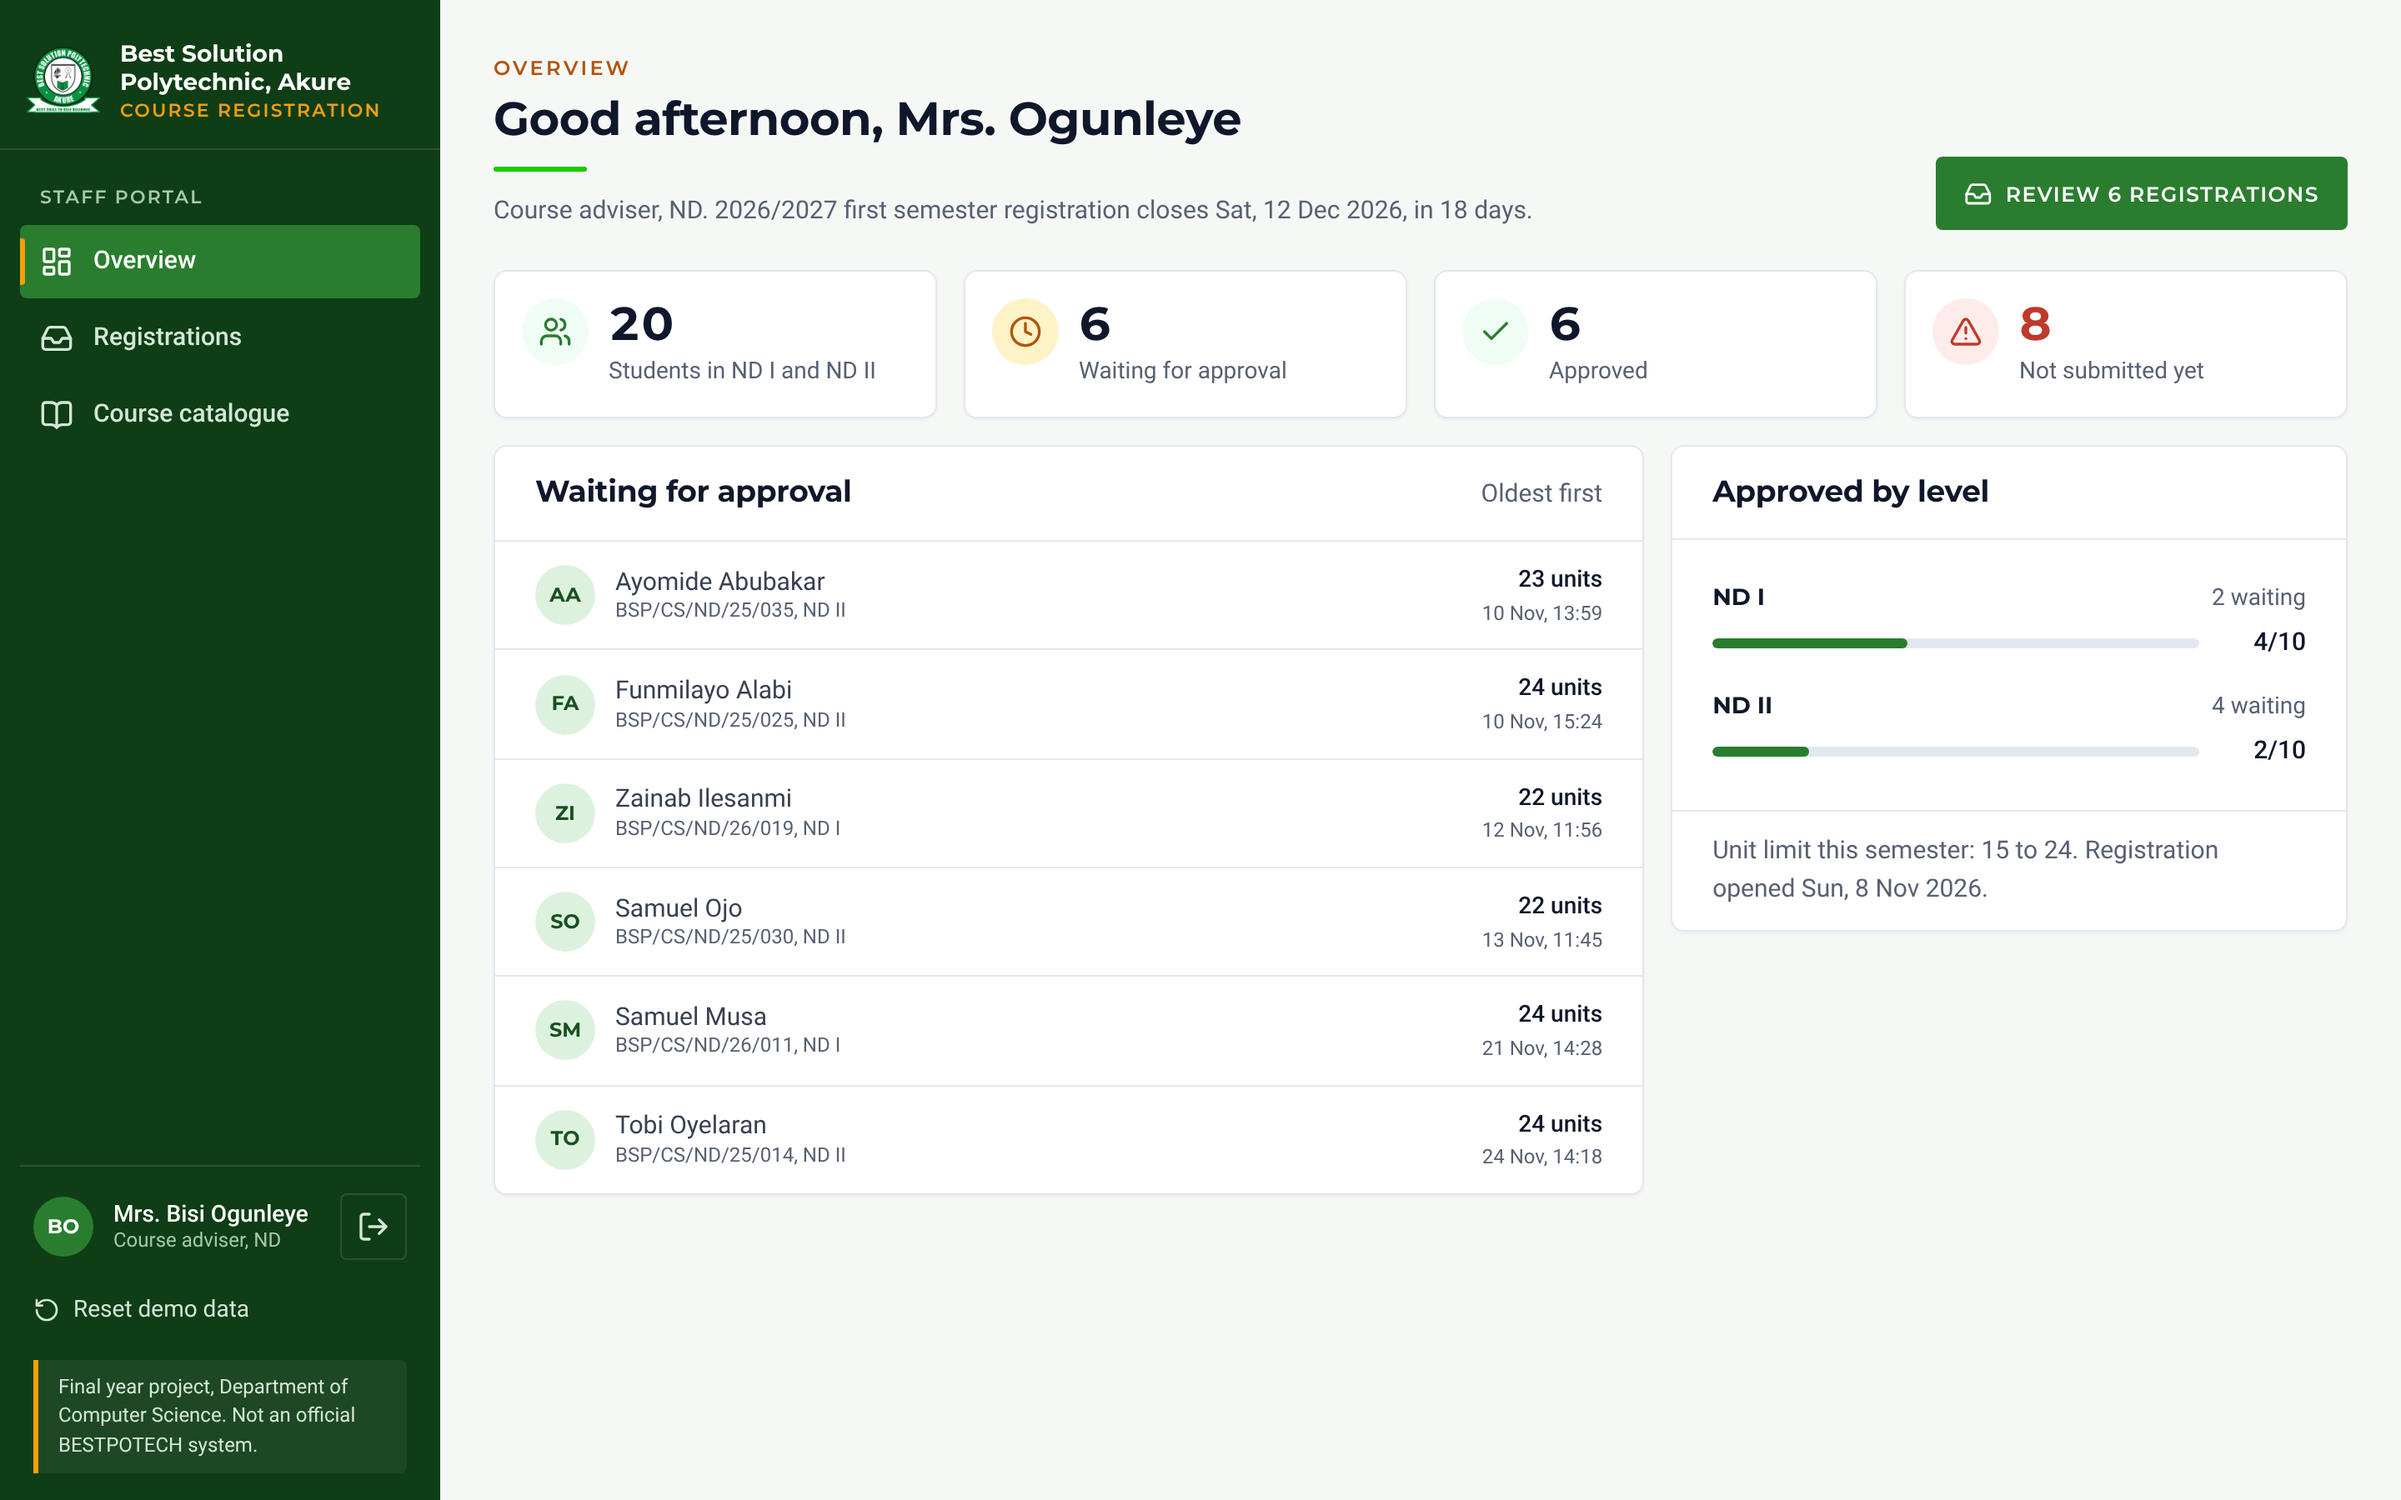
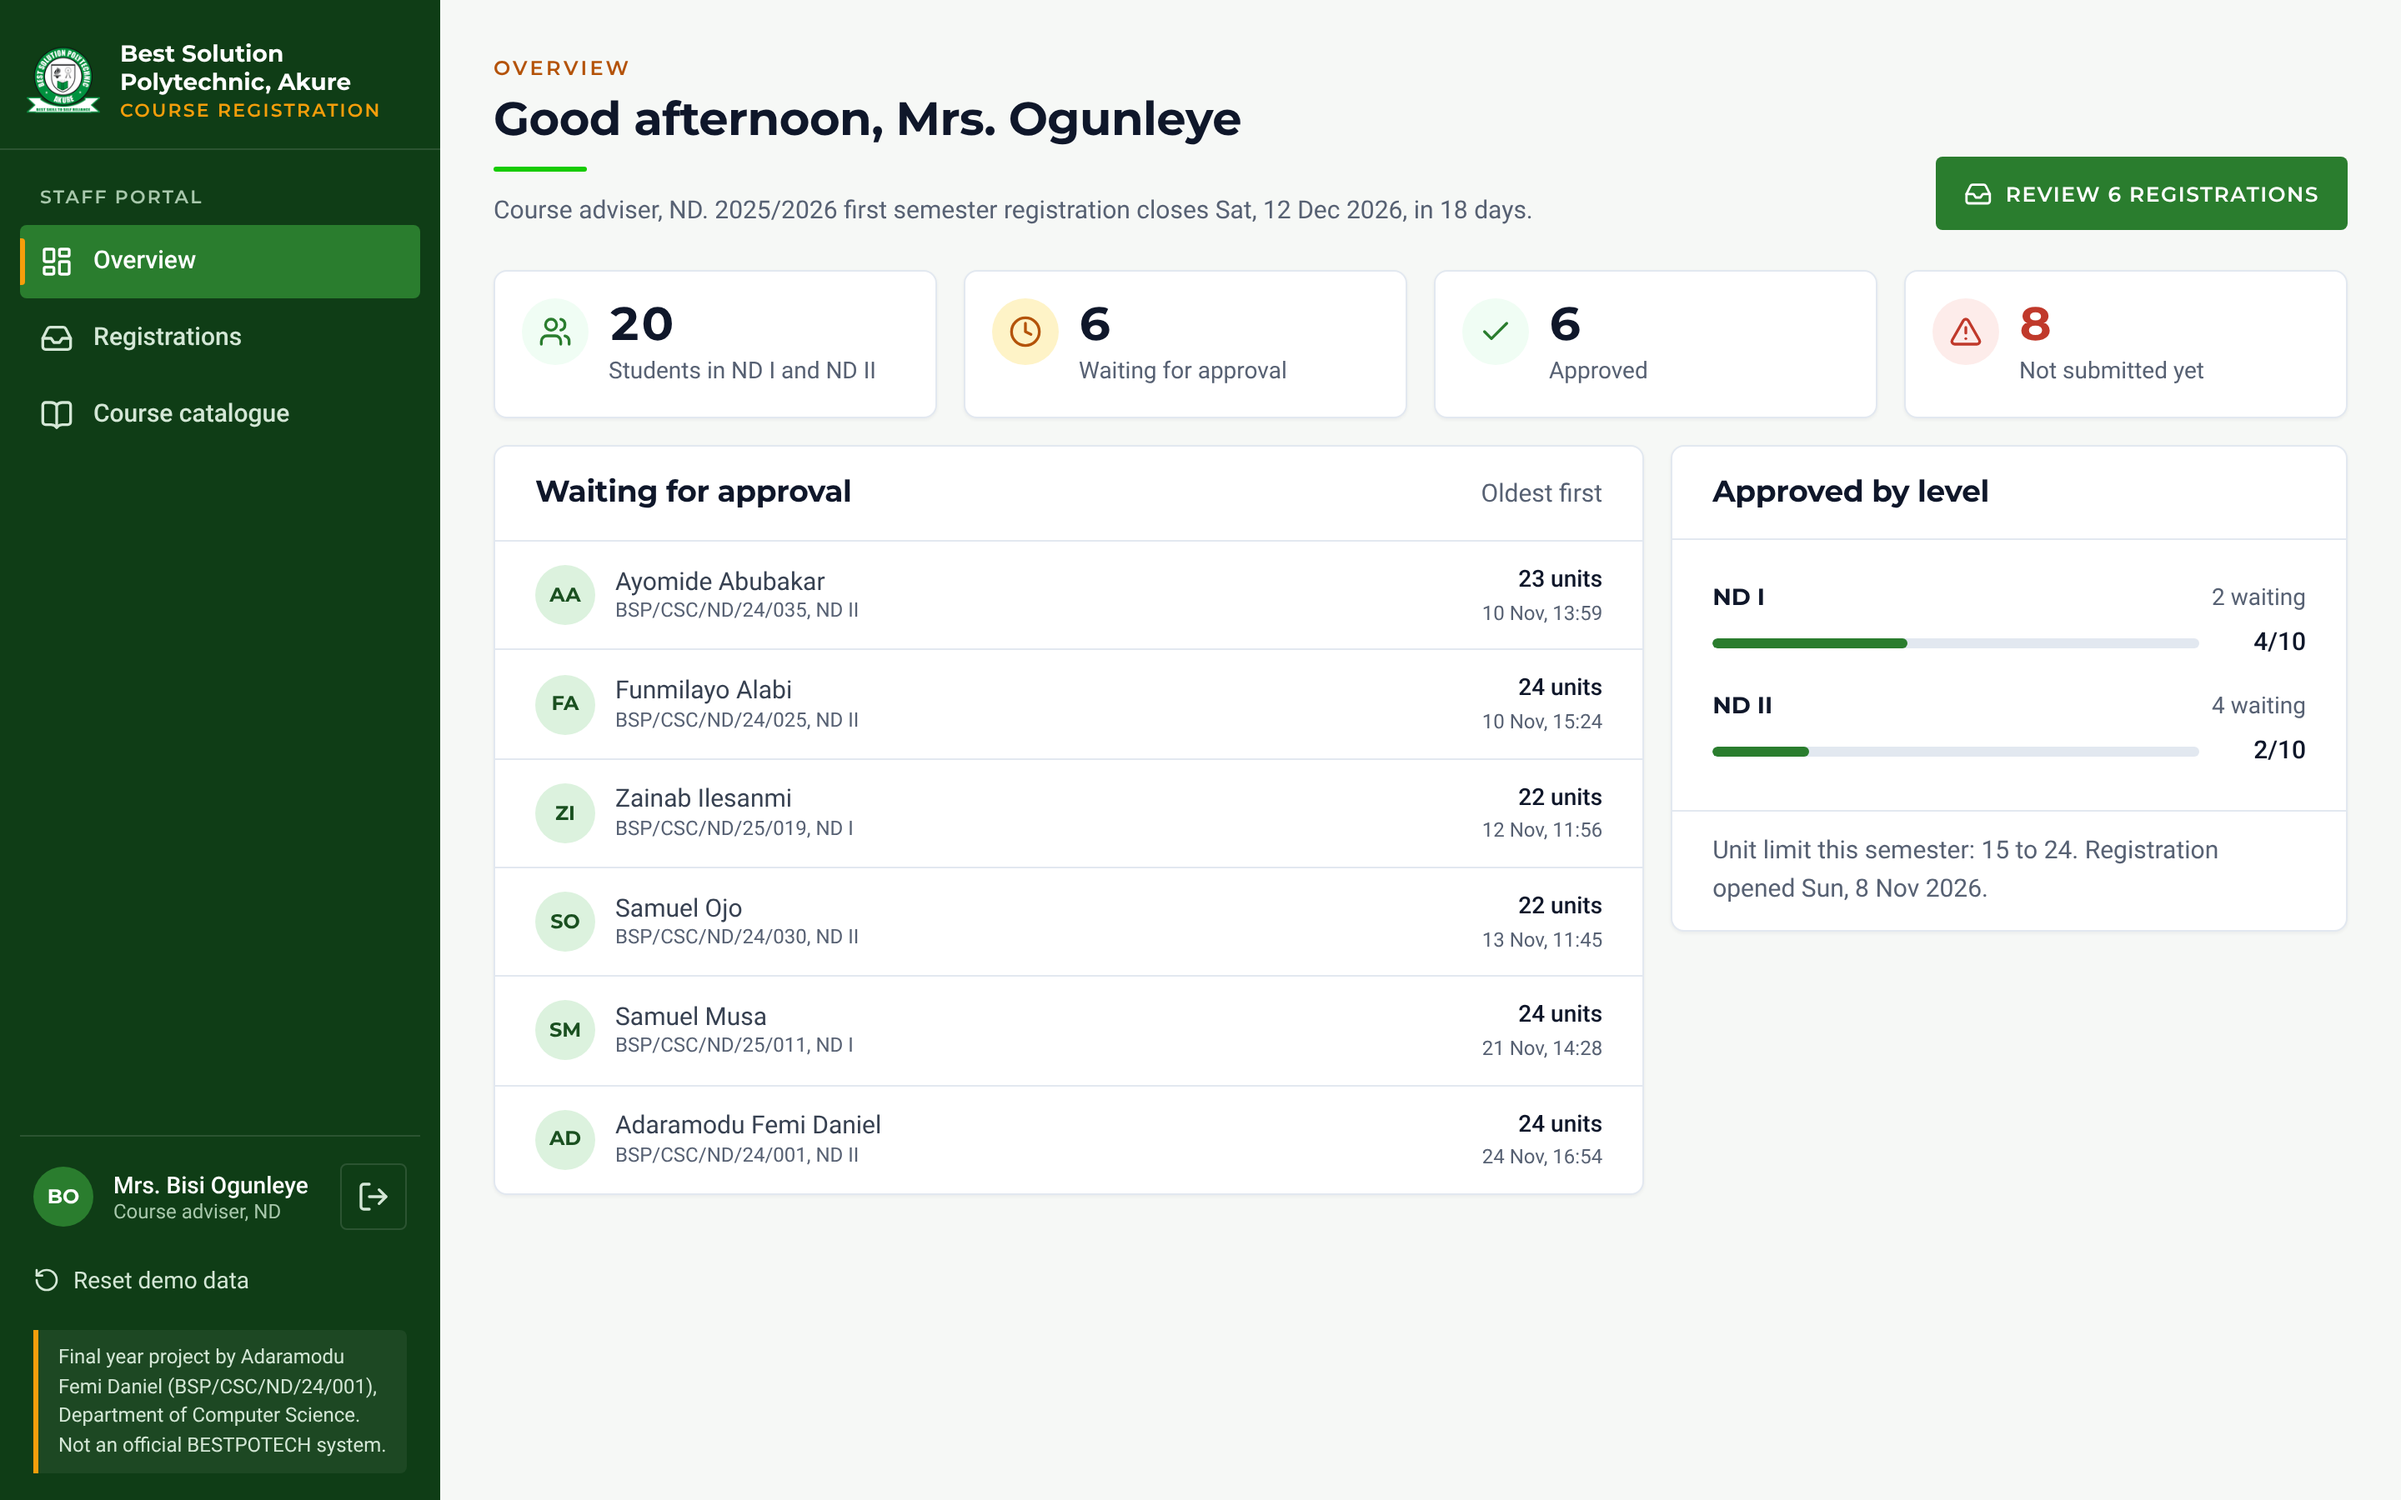
Add Adaramodu Femi Daniel as presenter and demo student
Matric numbers now follow the school's BSP/CSC format and the
session is 2025/2026, so the presenter's own matric fits ND II.

diff --git a/js/lib/seed.js b/js/lib/seed.js
@@ -5,19 +5,19 @@
 import { LEVELS, STAFF } from './catalogue.js';
 import { optionsFor, requiredCodes, totalUnits } from './rules.js';
 
-export const DATA_VERSION = 3;
+export const DATA_VERSION = 4;
 
 const FIRST = ['Adaeze', 'Ayomide', 'Chinedu', 'Damilola', 'Ebuka', 'Fatima', 'Funmilayo', 'Ibrahim', 'Ifeoluwa', 'Ikechukwu', 'Kehinde', 'Mariam', 'Nkechi', 'Oluwaseun', 'Opeyemi', 'Precious', 'Ridwan', 'Samuel', 'Temitope', 'Tunde', 'Uche', 'Victoria', 'Yusuf', 'Zainab', 'Bolaji', 'Chiamaka', 'David', 'Esther', 'Gbenga', 'Halima', 'Jide', 'Kemi', 'Lateef', 'Moses', 'Ngozi', 'Rotimi'];
 const LAST = ['Adebayo', 'Okonkwo', 'Bello', 'Eze', 'Ogundipe', 'Abubakar', 'Olaniyan', 'Nwosu', 'Akinola', 'Ibe', 'Salami', 'Okafor', 'Adewale', 'Musa', 'Ojo', 'Afolabi', 'Babatunde', 'Chukwu', 'Ilesanmi', 'Oyebanji', 'Ajibade', 'Fashola', 'Obi', 'Lawal', 'Ayodele', 'Komolafe', 'Oladipo', 'Uzor', 'Alabi', 'Olowe'];
 
-const MATRIC_PREFIX = { 'ND I': 'ND/26', 'ND II': 'ND/25', 'HND I': 'HND/26', 'HND II': 'HND/25' };
+const MATRIC_PREFIX = { 'ND I': 'ND/25', 'ND II': 'ND/24', 'HND I': 'HND/25', 'HND II': 'HND/24' };
 
 // Earlier failed courses a student might be carrying.
 const CARRY_POOL = { 'ND II': ['COM 113', 'COM 112', 'MTH 111'], 'HND II': ['COM 311', 'COM 315', 'STA 311'] };
 
-// The account the sign-in page offers first: ND II with one carryover
-// and nothing registered yet, so the whole journey can be shown.
-export const DEMO_STUDENT = 'BSP/CS/ND/25/014';
+// The presenter's own account: ND II with one carryover and nothing
+// registered yet, so the whole journey can be shown live.
+export const DEMO_STUDENT = 'BSP/CSC/ND/24/001';
 
 function random(seed) {
   let value = seed;
@@ -45,7 +45,7 @@ export function buildDemoData(now = new Date()) {
   const pick = (list) => list[Math.floor(rand() * list.length)];
 
   const term = {
-    session: '2026/2027',
+    session: '2025/2026',
     semester: 1,
     opens: isoDay(now, -16),
     closes: isoDay(now, 18),
@@ -66,7 +66,7 @@ export function buildDemoData(now = new Date()) {
       const pool = CARRY_POOL[level];
       const carryovers = pool && rand() < 0.3 ? [pick(pool)] : [];
       students.push({
-        matric: `BSP/CS/${MATRIC_PREFIX[level]}/${String(serial).padStart(3, '0')}`,
+        matric: `BSP/CSC/${MATRIC_PREFIX[level]}/${String(serial).padStart(3, '0')}`,
         name,
         level,
         mode: rand() < 0.8 ? 'Full-time' : 'Part-time',
@@ -75,9 +75,9 @@ export function buildDemoData(now = new Date()) {
     }
   }
 
-  // The demo student, placed in ND II.
+  // The presenter, placed in ND II. Surname first, as on school records.
   const demoIndex = students.findIndex((student) => student.level === 'ND II');
-  students[demoIndex] = { matric: DEMO_STUDENT, name: 'Tobi Oyelaran', level: 'ND II', mode: 'Full-time', carryovers: ['COM 113'] };
+  students[demoIndex] = { matric: DEMO_STUDENT, name: 'Adaramodu Femi Daniel', preferredName: 'Femi', level: 'ND II', mode: 'Full-time', carryovers: ['COM 113'] };
 
   const registrations = {};
   let refCounter = 0;
@@ -133,5 +133,5 @@ export function buildDemoData(now = new Date()) {
 
 export function makeRef(term, counter) {
   const years = term.session.replace(/^20(\d\d)\/20(\d\d)$/, '$1$2');
-  return `CRF/CS/${years}/${term.semester}/${String(counter).padStart(4, '0')}`;
+  return `CRF/CSC/${years}/${term.semester}/${String(counter).padStart(4, '0')}`;
 }

diff --git a/js/lib/catalogue.js b/js/lib/catalogue.js
@@ -8,7 +8,9 @@ export const SCHOOL = Object.freeze({
   address: 'P.O. Box 518, Km 12, Ondo Road, Akure, Ondo State',
   department: 'Department of Computer Science',
   faculty: 'School of Information and Communication Technology',
-  projectNote: 'Final year project, Department of Computer Science. Not an official BESTPOTECH system.',
+  presenter: 'Adaramodu Femi Daniel',
+  presenterMatric: 'BSP/CSC/ND/24/001',
+  projectNote: 'Final year project by Adaramodu Femi Daniel (BSP/CSC/ND/24/001), Department of Computer Science. Not an official BESTPOTECH system.',
 });
 
 export const LEVELS = Object.freeze(['ND I', 'ND II', 'HND I', 'HND II']);

diff --git a/js/pages/signin.js b/js/pages/signin.js
@@ -12,7 +12,7 @@ if (signedIn) window.location.replace(home(signedIn));
 $('#school-address').replaceChildren(icon('mapPin', { size: 16 }), SCHOOL.address);
 
 const fields = [
-  buildField({ name: 'username', label: 'Matric number or email', autocomplete: 'username', help: 'For example BSP/CS/ND/25/014' }),
+  buildField({ name: 'username', label: 'Matric number or email', autocomplete: 'username', help: 'For example BSP/CSC/ND/24/001' }),
   buildField({ name: 'password', label: 'Password', type: 'password', autocomplete: 'current-password' }),
 ];
 fields[0].control.setAttribute('autocapitalize', 'characters');

diff --git a/js/pages/student.js b/js/pages/student.js
@@ -16,7 +16,7 @@ const adviser = STAFF.find((member) => member.role === 'adviser' && member.level
 const open = windowState(term, today) === 'open';
 const daysLeft = daysBetween(today, term.closes);
 
-$('#page-title').textContent = `${greeting()}, ${firstName(user.name)}`;
+$('#page-title').textContent = `${greeting()}, ${user.preferredName || firstName(user.name)}`;
 $('#page-meta').textContent = `${user.level}, ${PROGRAMMES[user.level]}. ${term.session} session, first semester.`;
 
 const primary = canEdit(registration) && open

diff --git a/index.html b/index.html
@@ -31,7 +31,7 @@
     </aside>
     <main class="portal__main" id="main">
       <div class="portal__card">
-        <p class="eyebrow">2026/2027 session, first semester</p>
+        <p class="eyebrow">2025/2026 session, first semester</p>
         <h1>Sign in</h1>
         <p class="portal__lead">Students sign in with their matriculation number. Staff use their school email.</p>
         <div id="signin-form"></div>

diff --git a/tests/rules.test.js b/tests/rules.test.js
@@ -88,5 +88,5 @@ test('demo data follows the rules', () => {
 });
 
 test('form references are readable', () => {
-  assert.equal(makeRef(term, 7), 'CRF/CS/2627/1/0007');
+  assert.equal(makeRef(term, 7), 'CRF/CSC/2526/1/0007');
 });

diff --git a/README.md b/README.md
@@ -2,6 +2,8 @@
 
 Course registration for the Department of Computer Science, built as a final year project for Best Solution Polytechnic, Akure. Students choose their courses for the semester and send them to their course adviser. The adviser checks them and approves them, or sends them back with a note. The approved course form prints on one A4 page.
 
+**Presented by:** Adaramodu Femi Daniel (BSP/CSC/ND/24/001), Department of Computer Science.
+
 **Live demo:** https://joyhacks.github.io/course-registration-system/
 
 ![Student overview after approval](docs/student.png)
@@ -12,16 +14,16 @@ Every demo account uses the password `demo2026`. Type the matric number or email
 
 | Account | Sign in with | What to try |
 |---|---|---|
-| Tobi Oyelaran, student, ND II | `BSP/CS/ND/25/014` | Register courses (one carryover is already in), submit, then print the form after approval |
+| Adaramodu Femi Daniel, student, ND II | `BSP/CSC/ND/24/001` | Register courses (one carryover is already in), submit, then print the form after approval |
 | Mrs. Bisi Ogunleye, course adviser, ND | `b.ogunleye@demo.school` | Approve or return the registrations waiting for you |
 | Mr. Segun Falade, course adviser, HND | `s.falade@demo.school` | Same, for HND I and HND II |
 | Dr. Kunle Ajayi, Head of Department | `hod.cs@demo.school` | See and review every level |
 
 A good walk-through takes two minutes:
 
-1. Sign in as Tobi. Add an elective and submit.
-2. Sign out and sign in as Mrs. Ogunleye. Open Tobi's registration, check the automatic checks, and approve it.
-3. Sign in as Tobi again and print the course form.
+1. Sign in as Femi. Add an elective and submit.
+2. Sign out and sign in as Mrs. Ogunleye. Open Femi's registration, check the automatic checks, and approve it.
+3. Sign in as Femi again and print the course form.
 
 **Reset demo data** at the bottom of the menu puts everything back to the start.
 
@@ -69,7 +71,7 @@ Kept in one file, [`js/lib/rules.js`](js/lib/rules.js), with no browser code, so
 - Nothing can be saved or submitted outside the registration window.
 - Once submitted, only the adviser can send it back. Once approved, it is locked.
 - Only an adviser for the student's level, or the HOD, can approve or return it. A return needs a note.
-- Each submitted form gets a reference like `CRF/CS/2627/1/0031`, kept if it is returned and resubmitted.
+- Each submitted form gets a reference like `CRF/CSC/2526/1/0031`, kept if it is returned and resubmitted.
 
 ## How the demo works
 
